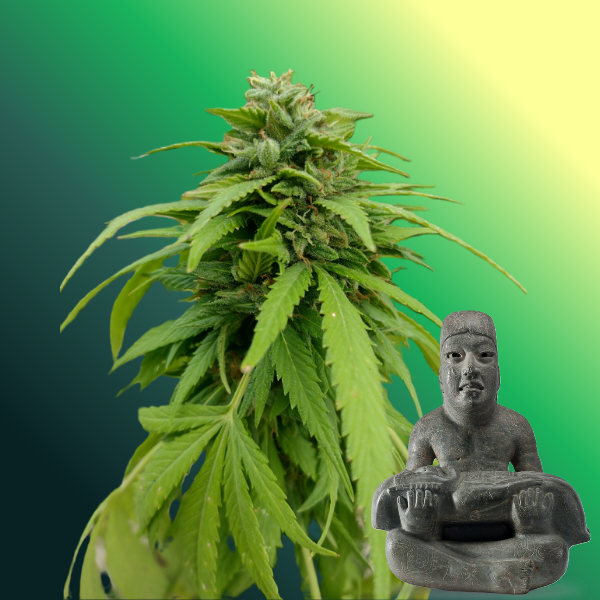
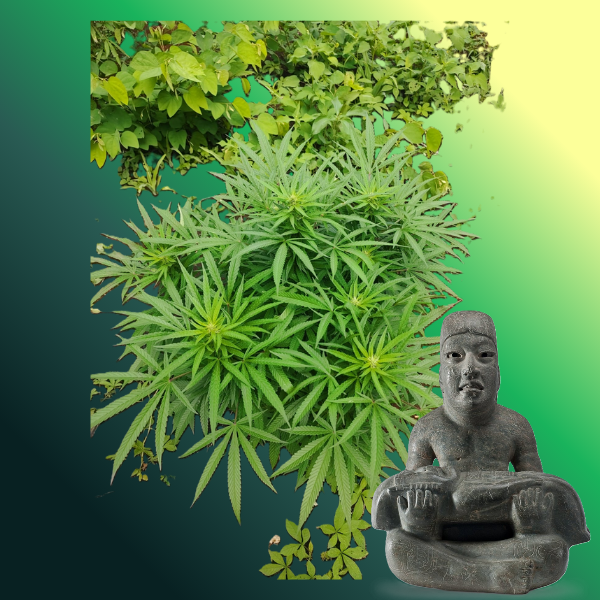
feat: 🌿 Update Chak product metadata and support contact ### Changes Made - feat: 🌿 Add detailed technical metadata for "Chak" product in `src/data/products.ts` - feat: 📞 Update WhatsApp advisor phone number in `src/app/(landing)/products/page.tsx` - feat: 🖼 Update Chak product image in `public/imgs

diff --git a/src/data/products.ts b/src/data/products.ts
@@ -160,5 +160,104 @@ export const products: Product[] = [
         sku: "YK-3"
       }
     ]
+  },
+  {
+    "id": 3,
+    "name": "Chak la Reyna Roja",
+    "slug": "chak-la-reyna-roja",
+
+    "type": {
+      "id": 1,
+      "name": "Genética"
+    },
+
+    "shortDescription": "Línea experimental con pigmentación rojiza y comportamiento psicoactivo dual.",
+
+    "fullDescription": "Chak la Reyna Roja representa una línea experimental de alta variabilidad fenotípica enfocada en perfiles sensoriales intensos y exploración terpénica.",
+
+    "geneticType": "Híbrida experimental",
+
+    "cultivationLine": "Exterior / Interior",
+
+    "developmentStatus": "Experimental — fenotipo en observación",
+
+    "dominance": "Híbrida",
+
+    "origin": "Productor asociado no verificado bajo Manual Quetzal",
+
+    "classification": "Experimental",
+
+    "organolepticProfile": "Cítrico, herbal y resinoso",
+
+    "aroma": "Cítrico fresco con fondo herbal-resinoso",
+
+    "flavor": "Notas ácidas y dulces con retrogusto vegetal",
+
+    "thcEstimated": null,
+
+    "technicalData": {
+      "botanicalFeatures": [
+        "Pecíolos intensamente naranjas a rojo profundo",
+        "Alta pigmentación vascular observable",
+        "Fenotipo no estabilizado",
+        "Expresión variable entre individuos",
+        "Adaptable a indoor y outdoor"
+      ],
+
+      "cultivation": {
+        // "methods": [
+        //   "Indoor",
+        //   "Outdoor"
+        // ],
+
+        // "phytosanitaryResistance": [
+        //   "Sin resistencia confirmada a Botrytis cinerea",
+        //   "Sin resistencia confirmada a Oídio"
+        // ],
+
+        // "agronomicStatus": "Genética en evaluación temprana",
+
+        // "climaticCompatibility": "En observación"
+      },
+
+      "effects": [
+        "Inicio cerebral intenso",
+        "Creatividad",
+        "Relajación corporal profunda",
+        "Somnolencia marcada",
+        "Sensación de cuerpo pesado",
+        "Alteración temporal de memoria inmediata"
+      ],
+
+      "terpenes": [
+        "Terpenos cítricos",
+        "Terpenos volátiles"
+      ],
+
+      "warnings": [
+        "Genética experimental",
+        "Perfil fitoquímico no estabilizado",
+        "Requiere monitoreo fitosanitario constante",
+        "Productor aún no auditado bajo estándares CQCS"
+      ],
+
+      "conservation": [
+        "Mantener en ambiente seco y ventilado",
+        "Evitar humedad elevada durante curado",
+        "Almacenar protegido de luz UV"
+      ],
+
+      "technicalObservations": "Presenta comportamiento psicoactivo dual con fase inicial cerebral elevada seguida de sedación profunda. Actualmente continúa en observación técnica y evaluación agronómica."
+    },
+
+    "images": [
+      {
+        "id": 1,
+        "url": "/imgs/products/chak-1.png",
+        "alt": "Chak la Reyna Roja principal"
+      }
+    ],
+
+    "variants": []
   }
 ]

diff --git a/src/app/(landing)/products/page.tsx b/src/app/(landing)/products/page.tsx
@@ -29,7 +29,7 @@ export default async function Products() {
       <CallToAction
         title="¿Tienes dudas? Escríbenos y te asesoramos en tu compra"
         buttonText="Chatear con un Asesor"
-        buttonLink={`https://wa.me/529811786377?text=Hola%2C%20me%20gustar%C3%ADa%20hablar%20con%20un%20asesor%20para%20obtener%20m%C3%A1s%20informaci%C3%B3n%20sobre%20los%20productos.`}
+        buttonLink={`https://wa.me/529641014634?text=Hola%2C%20me%20gustar%C3%ADa%20hablar%20con%20un%20asesor%20para%20obtener%20m%C3%A1s%20informaci%C3%B3n%20sobre%20los%20productos.`}
       />
     </main>
   )
